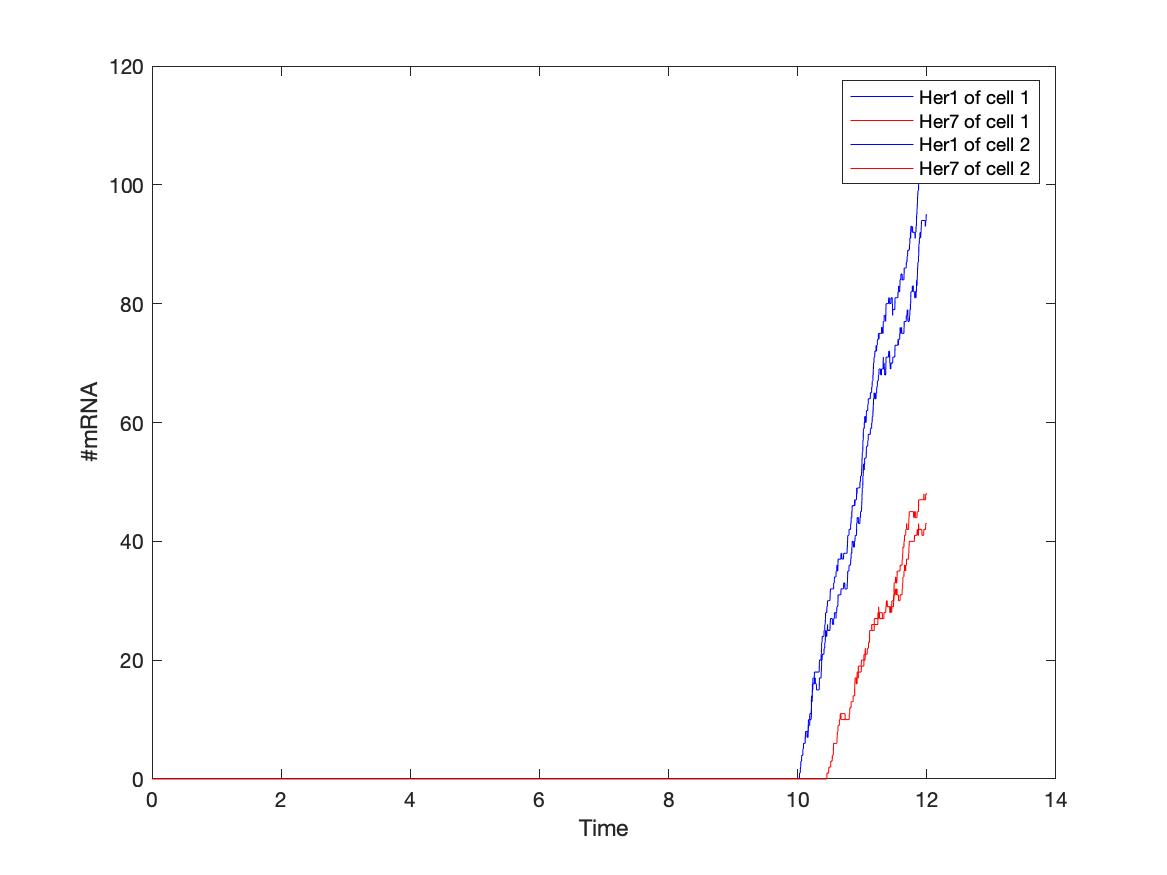
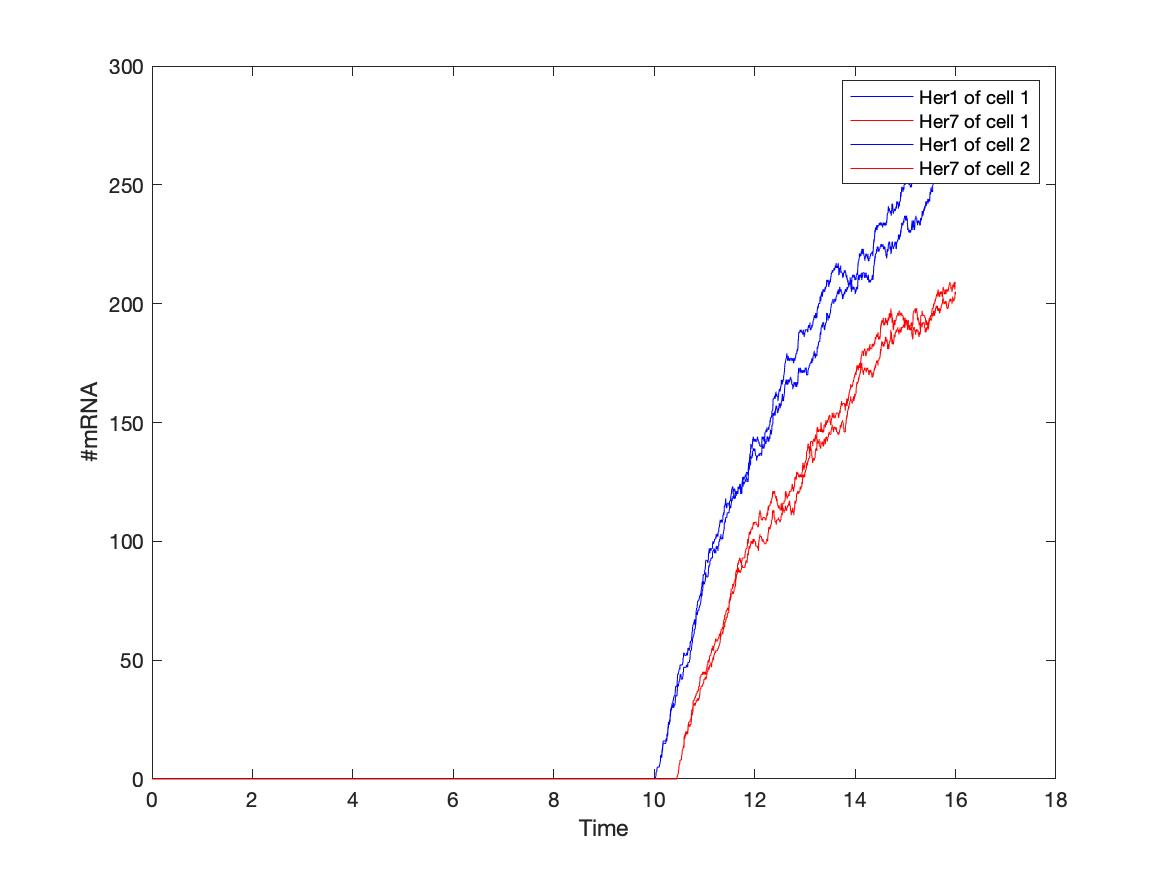
another run of v4

diff --git a/vani_stochastic_v4.m b/vani_stochastic_v4.m
@@ -18,9 +18,9 @@ pdh1=0.34951;
 % pdh6=0.14824;
 pdh7=0.249715;
 pdd=0.324316;
-msh1=30; % 48.3084;
+msh1=48.3084;
 % msh6=36.4073;
-msh7= 20; %39.685;
+msh7= 39.685;
 msd=60.5577;
 mdh1=0.322965;
 % mdh6=0.146372;
@@ -242,7 +242,6 @@ end
     
   % For the selected reaction and cell, update Pk. 
   % (if not completing a delayed reaction)
-    
   if RN<=12 && RN>=1
      r = rand;
      Pk(ck,RN) = Pk(ck,RN) + log(1/r);
